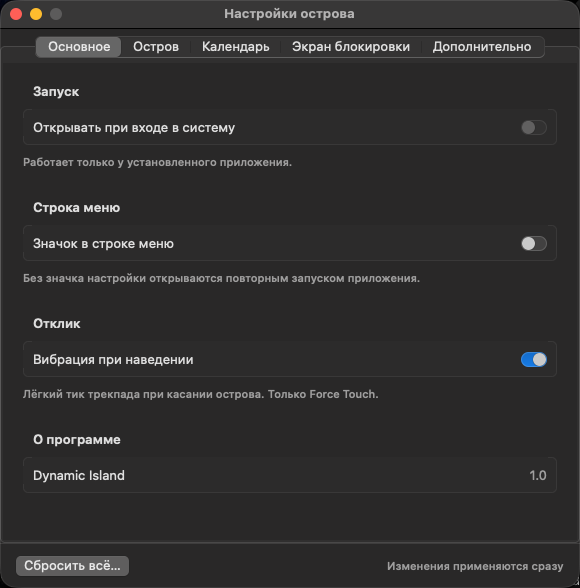
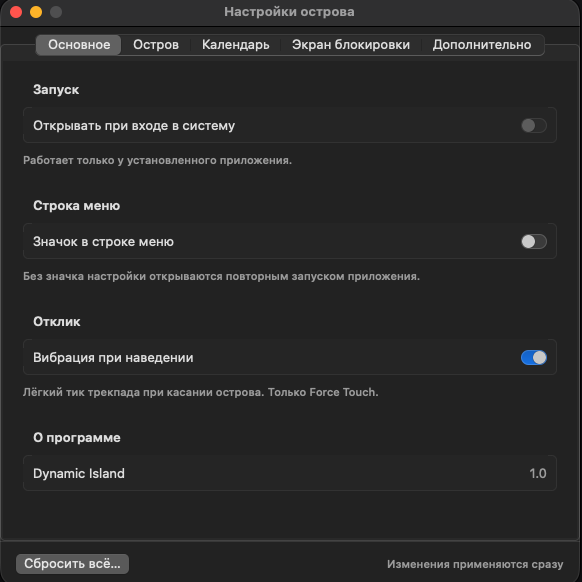
Replace README screenshots with live captures
The previous screenshots were crops from the design gallery: cropped
wallpaper fragments at the edges and a staged track ("Blinding
Lights") that never played on this machine. Retake them against the
running app instead: real Spotify playback (no injection), a calm
solid wallpaper so every frame is comparable, and a consistent crop
centered on the built-in display's notch.

Kept only states captured live: Now Playing collapsed/peek/expanded,
the lock-screen card, and the real Settings window. Dropped the call/
timer/calendar/Live Activity screenshots — getting honest live or
plausibly-injected versions of those wasn't practical in this pass,
so the README now describes them in text only instead of showing
mockups.

diff --git a/README.md b/README.md
@@ -2,7 +2,10 @@
 
 An iOS-style Dynamic Island for your Mac's notch — Now Playing, calls, timers, calendar, and a live-activity API for your own scripts.
 
-![Now Playing](docs/screenshots/now-playing.png)
+![Now Playing, expanded](docs/screenshots/now-playing.png)
+
+All screenshots below are live captures of the app running on this Mac (real Spotify track, real
+lock-screen overlay, real Settings window) — not mockups.
 
 ## Status
 
@@ -19,26 +22,24 @@ Known limitations, honestly:
 
 **Now Playing for any source** — Spotify, Apple Music, and any browser tab playing audio/video (YouTube, SoundCloud, Twitch, etc. in Chrome, Safari, Arc, Firefox, Yandex Browser), plus any other media app. Pages without a cover fall back to the browser/app icon; live streams show "LIVE".
 
-![Now Playing expanded](docs/screenshots/now-playing.png)
+Collapsed (just the ears beside the notch) and peek (on hover):
+
+![Now Playing, collapsed](docs/screenshots/now-playing-collapsed.png)
+![Now Playing, peek](docs/screenshots/now-playing-peek.png)
+
+Tap to expand into the full card:
+
+![Now Playing, expanded](docs/screenshots/now-playing.png)
 
 **Calls** — detects ongoing calls in Telegram, FaceTime, Zoom, Discord, WhatsApp, Slack, Teams, Skype, Viber, Signal, Webex, or a browser (Meet, etc.) from mic/camera activity. Shows the app, duration, mic/camera state, and an "Open" button.
 
-![Call in progress](docs/screenshots/call.png)
-
 **System Clock timers** — any timer started in the Clock app, by Siri, or by a Shortcut shows up with a live countdown and a "Таймер завершён" (Timer finished) glance when it fires.
-
-![Timer running](docs/screenshots/timer.png)
 
 **Calendar & Reminders** — a heads-up before an event starts, a live "Сейчас: …" card with a join button when the event has a Zoom/Meet/Teams/Telemost/Webex link, and reminders that can be checked off right from the island.
 
-![Upcoming event](docs/screenshots/agenda-event.png)
-![Overdue reminder](docs/screenshots/agenda-reminder.png)
-
 **Live Activity API** — any local script, CI job, or agent can push its own progress into the island over a local HTTP API (see below).
 
-![Script progress](docs/screenshots/live-activity.png)
-
-**Lock screen** — a matching Now Playing card with synced lyrics, drawn over the lock screen.
+**Lock screen** — a matching Now Playing card with synced lyrics (when found), drawn over the lock screen.
 
 ![Lock screen card](docs/screenshots/lock-screen.png)
 
